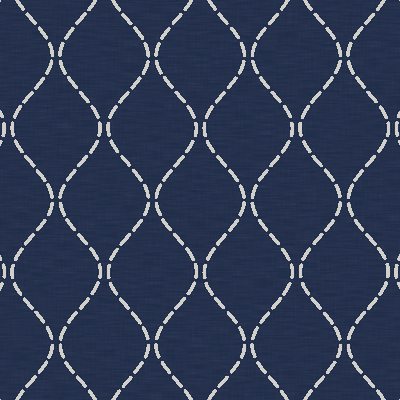
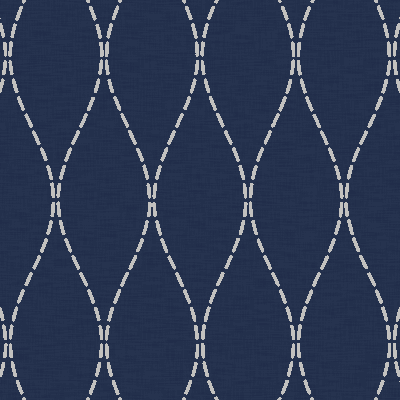
fix; tatewaku pattern

diff --git a/js/sashiko.js b/js/sashiko.js
@@ -470,8 +470,9 @@ function sayagata(u) {
 }
 
 function tatewaku(u) {
-  // neighbor lines wave in opposite directions, swelling apart and pinching together
-  const sp = u / 2, A = sp * 0.42, per = u * 1.5, C = S / 2, out = [];
+  // neighbor lines wave in opposite directions, swelling apart and pinching together;
+  // tall waves so the swells read as steam rising, not as a diamond mesh
+  const sp = u / 2, A = sp * 0.45, per = u * 3, C = S / 2, out = [];
   const n = Math.ceil(S / sp / 2) + 2;
   for (let i = -n; i <= n; i++) {
     const x0 = C + i * sp + sp / 2, s = Math.abs(i) % 2 ? -1 : 1, pts = [];

diff --git a/sw.js b/sw.js
@@ -1,4 +1,4 @@
-const CACHE = "sashiko-maker-v4";
+const CACHE = "sashiko-maker-v5";
 const ASSETS = [
   "./",
   "css/common.css",
